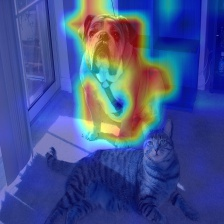
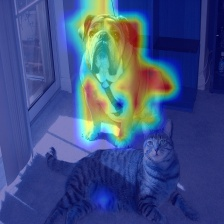
update code

diff --git a/gradcam.py b/gradcam.py
@@ -1,39 +1,20 @@
 import cv2
 import numpy as np
 
+
 class GradCam:
-    """
-    Gradient-weighted Class Activation Mapping (Grad-CAM) implementation for visualizing
-    important regions in an input image based on the activations of a specific target layer.
-
-    Args:
-        model (torch.nn.Module): The trained neural network model.
-        target (torch.nn.Module): The target layer in the model for which Grad-CAM will be computed.
-
-    Attributes:
-        model (torch.nn.Module): The trained neural network model.
-        feature (torch.Tensor): Feature maps extracted from the target layer.
-        gradient (torch.Tensor): Gradients of the target layer's output with respect to model's output.
-        target (torch.nn.Module): The target layer in the model for which Grad-CAM will be computed.
-    """
-
     def __init__(self, model, target):
         self.model = model.eval()
         self.feature = None
         self.gradient = None
+        self.handlers = []
         self.target = target
         self._get_hook()
 
     def _get_features_hook(self, module, input, output):
-        """
-        Hook function to extract feature maps from the target layer.
-        """
         self.feature = self.reshape_transform(output)
 
     def _get_grads_hook(self, module, input_grad, output_grad):
-        """
-        Hook function to compute gradients of the target layer's output with respect to model's output.
-        """
         self.gradient = self.reshape_transform(output_grad)
 
         def _store_grad(grad):  
@@ -42,16 +23,10 @@ class GradCam:
         output_grad.register_hook(_store_grad)
     
     def _get_hook(self):
-        """
-        Register hooks for extracting feature maps and computing gradients of the target layer.
-        """
         self.target.register_forward_hook(self._get_features_hook)
         self.target.register_forward_hook(self._get_grads_hook)
 
     def reshape_transform(self, tensor, height=14, width=14):
-        """
-        Reshape and transpose the tensor to facilitate Grad-CAM computation.
-        """
         result = tensor[:, 1:, :].reshape(tensor.size(0),
                                           height, 
                                           width, 
@@ -61,15 +36,7 @@ class GradCam:
         return result
 
     def __call__(self, inputs):
-        """
-        Compute Grad-CAM for the given input image.
-
-        Args:
-            inputs (torch.Tensor): The input image tensor.
-
-        Returns:
-            numpy.ndarray: The computed Grad-CAM heatmap.
-        """
+            
         self.model.zero_grad()
         output = self.model(inputs) 
         
@@ -81,11 +48,6 @@ class GradCam:
         weight = np.mean(gradient, axis=(1, 2))
         feature = self.feature[0].cpu().data.numpy()
 
-        # Theorem for Grad-CAM computation:
-        # Grad-CAM = Σ(∂L/∂A_k * A_k)
-        # Where:
-        # ∂L/∂A_k : Gradient of the target class activation with respect to the feature maps of the target layer.
-        # A_k : Feature maps of the target layer.
         cam = feature * weight[:, np.newaxis, np.newaxis]
         cam = np.sum(cam, axis=0) 
         cam = np.maximum(cam, 0) 

diff --git a/main.py b/main.py
@@ -1,61 +1,45 @@
-import cv2
-import numpy as np
 import timm
+import torch
 from skimage import io
-
+from torchvision.models import vgg19, resnet18
+from torchsummary import summary
 from gradcam import GradCam
+import numpy as np
+import cv2
+
+timm.list_models('vit_*')
 
 def prepare_input(image):
-    """
-    Preprocesses the input image to make it compatible with the model.
+    image = image.copy()
 
-    Args:
-        image (numpy.ndarray): The input image as a NumPy array.
-
-    Returns:
-        torch.Tensor: The preprocessed image as a PyTorch tensor.
-    """
     means = np.array([0.5, 0.5, 0.5])
     stds = np.array([0.5, 0.5, 0.5])
-    image = ((image.astype(np.float32) / 255) - means) / stds
-    image = np.transpose(image, (2, 0, 1))
-    return torch.tensor(image[np.newaxis, ...], requires_grad=True)
+    image -= means
+    image /= stds
+
+    image = np.ascontiguousarray(np.transpose(image, (2, 0, 1)))
+    image = image[np.newaxis, ...]
+
+    return torch.tensor(image, requires_grad=True)
 
 def gen_cam(image, mask):
-    """
-    Generates the Class Activation Map (CAM) using the input image and mask.
-
-    Args:
-        image (numpy.ndarray): The input image as a NumPy array.
-        mask (numpy.ndarray): The Grad-CAM mask as a NumPy array.
-
-    Returns:
-        numpy.ndarray: The Class Activation Map as a NumPy array.
-    """
     heatmap = cv2.applyColorMap(np.uint8(255 * mask), cv2.COLORMAP_JET)
+    heatmap = np.float32(heatmap) / 255
+
     cam = (1 - 0.5) * heatmap + 0.5 * image
-    return np.uint8(255 * cam / np.max(cam))
+    cam = cam / np.max(cam)
+    return np.uint8(255 * cam)
 
 if __name__ == '__main__':
-    # Load the input image
     img = io.imread("both.png")
     img = np.float32(cv2.resize(img, (224, 224))) / 255
-
-    # Prepare the input for the model
     inputs = prepare_input(img)
 
-    # Load the Vision Transformer model
     model = timm.create_model('vit_base_patch16_224', pretrained=True)
     target_layer = model.blocks[-1].norm1
     
-    # Initialize the Grad-CAM
     grad_cam = GradCam(model, target_layer)
-
-    # Compute the Grad-CAM mask
     mask = grad_cam(inputs)
-
-    # Generate the Class Activation Map
     result = gen_cam(img, mask)
 
-    # Save the resulting image
     cv2.imwrite('result.jpg', result)
